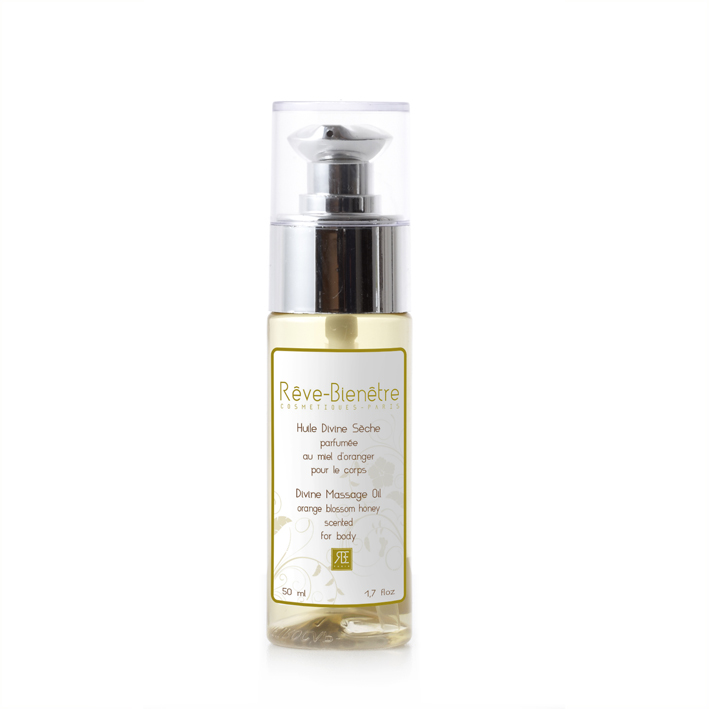
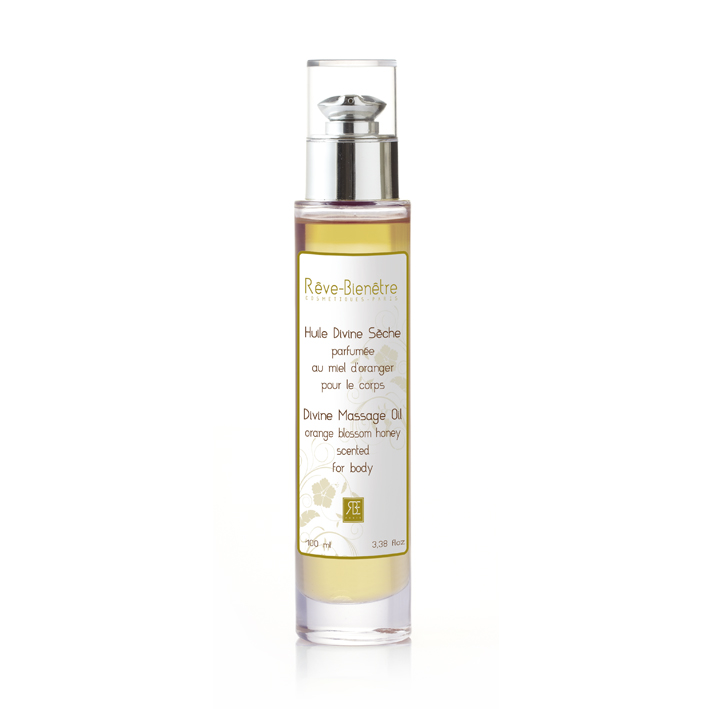
Correction images (mauvais etiquettes)

Changed region(s): [[0.3724, 0.0621, 0.5896, 0.9309], [0.4344, 0.0621, 0.4654, 0.0931], [0.3724, 0.1241, 0.4034, 0.1551]]

diff --git a/www/soins-corps-produits-huiles.htm b/www/soins-corps-produits-huiles.htm
@@ -108,7 +108,7 @@
 				<h4>Soins du corps / Huiles de corps et massage : <span id="nbItem_corps"></span> produits</h4>
 				<ul id="mycarousel" class="liste-produits">
 					<!--Les Huiles-->
-					<li class="produits"><a href="soins-corps-produit-25.htm"><img src="images/produits/huile-Divine.jpg" alt="Huile Divine sèche - 50ml et 100ml" /><div class="caption"><strong>Huile Divine sèche<br /></strong>50ml et 100ml<div class="breaker"></div><div class="nouveaute">Nouveauté !</div><div class="best-seller">Meilleure vente !</div></div></a></li>
+					<li class="produits"><a href="soins-corps-produit-25.htm"><img src="images/produits/huile-Divine-100-ml.jpg" alt="Huile Divine sèche - 50ml et 100ml" /><div class="caption"><strong>Huile Divine sèche<br /></strong>50ml et 100ml<div class="breaker"></div><div class="nouveaute">Nouveauté !</div><div class="best-seller">Meilleure vente !</div></div></a></li>
 					<li class="produits"><a href="soins-corps-produit-1.htm"><img src="images/produits/huile-d'argan-100-ml.jpg" alt="Huile d'argan - 100 ml" /><div class="caption"><strong>Huile d'argan</strong>Visage, corps et cheveux<br />100 ml<div class="breaker"></div><div class="best-seller">Meilleure vente !</div></div></a></li>
 					<li class="produits"><a href="soins-corps-produit-11.htm"><img src="images/produits/Huile-de-massage-the-vert-100-ml.jpg" alt="Huile de massage parfumée thé vert/gingembre - 100 ml" /><div class="caption"><strong>Huile de massage parfumée thé vert/gingembre</strong>100 ml<div class="breaker"></div><div class="best-seller">Meilleure vente !</div></div></a></li>
 					<li class="produits"><a href="soins-corps-produit-12.htm"><img src="images/produits/Huile-de-massage-monoi-100-ml.jpg" alt="Huile de massage parfumée au monoï - 100 ml" /><div class="caption"><strong>Huile de massage parfumée au monoï</strong>100 ml<div class="breaker"></div><div class="best-seller">Meilleure vente !</div></div></a></li>

diff --git a/www/en/nouveautes.htm b/www/en/nouveautes.htm
@@ -111,7 +111,7 @@
 					<li class="produits"><a href="nouveautes-produit-1.htm"><img src="../images/produits/trousse-decouverte.jpg" alt="Discovery set with 4 fragrant oils - 50 ml" /><div class="caption"><strong>Discovery set with 4 fragrant oils - 50 ml</strong>Body<!--<div class="breaker"></div><div class="best-seller">Best seller !</div>--></div></a></li>
 					<li class="produits"><a href="nouveautes-produit-12.htm"><img src="../images/produits/sac-reve-bienetre.jpg" alt="Rêve-Bienêtre bag" /><div class="caption"><strong>Rêve-Bienêtre bag</strong></div></a></li>
 					<li class="produits"><a href="nouveautes-produit-19.htm"><img src="../images/produits/foutha.jpg" alt="White Fouta 95% cotton" /><div class="caption"><strong>White Fouta 95% cotton</strong></div></a></li>
-					<!--<li class="produits"><a href="soins-corps-produit-25.htm"><img src="../images/produits/huile-Divine.jpg" alt="Divine dry oil - 50ml et 100ml" /><div class="caption"><strong>Divine dry oil<br />- 50ml or 100ml</strong><div class="breaker"></div></div></a></li>
+					<!--<li class="produits"><a href="soins-corps-produit-25.htm"><img src="../images/produits/huile-Divine-100-ml.jpg" alt="Divine dry oil - 50ml et 100ml" /><div class="caption"><strong>Divine dry oil<br />- 50ml or 100ml</strong><div class="breaker"></div></div></a></li>
 					
 					<li class="produits"><a href="soins-corps-produit-26.htm"><img src="../images/produits/gommage-argan-karite.jpg" alt="Argan & Shea Exfoliating Scrub - 200ml" /><div class="caption"><strong>Argan &amp; Shea Exfoliating Scrub<br />- 200ml</strong><div class="breaker"></div></div></a></li>
 					<li class="produits"><a href="soins-corps-produit-24.htm"><img src="../images/produits/soins-mains-pieds.jpg" alt="Hand and feet care - 100ml" /><div class="caption"><strong>Hand and feet care<br />- 100ml</strong><div class="breaker"></div><div class="best-seller">Meilleure vente !</div></div></a></li>

diff --git a/www/en/soins-corps-produits-huiles.htm b/www/en/soins-corps-produits-huiles.htm
@@ -108,7 +108,7 @@
 				<h4>Body care / Body and massage oil : <span id="nbItem_corps"></span> products</h4>
 				<ul id="mycarousel" class="liste-produits">
 					<!--Les Huiles-->
-					<li class="produits"><a href="soins-corps-produit-25.htm"><img src="../images/produits/huile-Divine.jpg" alt="Divine dry oil - 50ml or 100ml" /><div class="caption"><strong>Divine dry oil<br /></strong>50ml or 100ml<div class="breaker"></div><div class="nouveaute">New !</div><div class="best-seller">Meilleure vente !</div></div></a></li>
+					<li class="produits"><a href="soins-corps-produit-25.htm"><img src="../images/produits/huile-Divine-100-ml.jpg" alt="Divine dry oil - 50ml or 100ml" /><div class="caption"><strong>Divine dry oil<br /></strong>50ml or 100ml<div class="breaker"></div><div class="nouveaute">New !</div><div class="best-seller">Meilleure vente !</div></div></a></li>
 					<li class="produits"><a href="soins-corps-produit-1.htm"><img src="../images/produits/huile-d'argan-100-ml.jpg" alt="Argan oil - 100 ml" /><div class="caption"><strong>Argan oil</strong>Face, body and hair care<br />100 ml<div class="breaker"></div><div class="best-seller">Best seller !</div></div></a></li>
 					<li class="produits"><a href="soins-corps-produit-11.htm"><img src="../images/produits/Huile-de-massage-the-vert-100-ml.jpg" alt="Green tea/ginger scented massage oil - 100 ml" /><div class="caption"><strong>Green tea/ginger scented massage oil</strong>100 ml<div class="breaker"></div><div class="best-seller">Best seller !</div></div></a></li>
 					<li class="produits"><a href="soins-corps-produit-12.htm"><img src="../images/produits/Huile-de-massage-monoi-100-ml.jpg" alt="Monoï scented massage oil - 100 ml" /><div class="caption"><strong>Monoï scented massage oil</strong>100 ml<div class="breaker"></div><div class="best-seller">Best seller !</div></div></a></li>

diff --git a/www/soins-corps.htm b/www/soins-corps.htm
@@ -118,7 +118,7 @@
 					<!--//Les Gommages raffermissant-->
 
 					<!--Les Huiles-->
-					<li class="produits"><a href="soins-corps-produit-25.htm"><img src="images/produits/huile-Divine.jpg" alt="Huile Divine sèche - 50ml et 100ml" /><div class="caption"><strong>Huile Divine sèche<br /></strong>50ml et 100ml<div class="breaker"></div><!--<div class="nouveaute">Nouveauté !</div>--><div class="best-seller">Meilleure vente !</div></div></a></li>
+					<li class="produits"><a href="soins-corps-produit-25.htm"><img src="images/produits/huile-Divine-100-ml.jpg" alt="Huile Divine sèche - 50ml et 100ml" /><div class="caption"><strong>Huile Divine sèche<br /></strong>50ml et 100ml<div class="breaker"></div><!--<div class="nouveaute">Nouveauté !</div>--><div class="best-seller">Meilleure vente !</div></div></a></li>
 					<li class="produits"><a href="soins-corps-produit-1.htm"><img src="images/produits/huile-d'argan-100-ml.jpg" alt="Huile d'argan - 100 ml" /><div class="caption"><strong>Huile d'argan</strong>Visage, corps et cheveux<br />100 ml<div class="breaker"></div><div class="best-seller">Meilleure vente !</div></div></a></li>
 					<li class="produits"><a href="soins-corps-produit-11.htm"><img src="images/produits/Huile-de-massage-the-vert-100-ml.jpg" alt="Huile de massage parfumée thé vert/gingembre - 100 ml" /><div class="caption"><strong>Huile de massage parfumée thé vert/gingembre</strong>100 ml<div class="breaker"></div><div class="best-seller">Meilleure vente !</div></div></a></li>
 					<li class="produits"><a href="soins-corps-produit-12.htm"><img src="images/produits/Huile-de-massage-monoi-100-ml.jpg" alt="Huile de massage parfumée au monoï - 100 ml" /><div class="caption"><strong>Huile de massage parfumée au monoï</strong>100 ml<div class="breaker"></div><div class="best-seller">Meilleure vente !</div></div></a></li>

diff --git a/www/en/soins-corps.htm b/www/en/soins-corps.htm
@@ -118,7 +118,7 @@
 					<!--//Les Gommages raffermissant-->
 
 					<!--Les Huiles-->
-					<li class="produits"><a href="soins-corps-produit-25.htm"><img src="../images/produits/huile-Divine.jpg" alt="Divine dry oil - 50ml or 100ml" /><div class="caption"><strong>Divine dry oil<br /></strong>50ml or 100ml<div class="breaker"></div><!--<div class="nouveaute">New !</div>--><div class="best-seller">Best seller !</div></div></a></li>
+					<li class="produits"><a href="soins-corps-produit-25.htm"><img src="../images/produits/huile-Divine-100-ml.jpg" alt="Divine dry oil - 50ml or 100ml" /><div class="caption"><strong>Divine dry oil<br /></strong>50ml or 100ml<div class="breaker"></div><!--<div class="nouveaute">New !</div>--><div class="best-seller">Best seller !</div></div></a></li>
 					<li class="produits"><a href="soins-corps-produit-1.htm"><img src="../images/produits/huile-d'argan-100-ml.jpg" alt="Argan oil - 100 ml" /><div class="caption"><strong>Argan oil</strong>Face, body and hair care<br />100 ml<div class="breaker"></div><div class="best-seller">Best seller !</div></div></a></li>
 					<li class="produits"><a href="soins-corps-produit-11.htm"><img src="../images/produits/Huile-de-massage-the-vert-100-ml.jpg" alt="Green tea/ginger scented massage oil - 100 ml" /><div class="caption"><strong>Green tea/ginger scented massage oil</strong>100 ml<div class="breaker"></div><div class="best-seller">Best seller !</div></div></a></li>
 					<li class="produits"><a href="soins-corps-produit-12.htm"><img src="../images/produits/Huile-de-massage-monoi-100-ml.jpg" alt="Monoï scented massage oil - 100 ml" /><div class="caption"><strong>Monoï scented massage oil</strong>100 ml<div class="breaker"></div><div class="best-seller">Best seller !</div></div></a></li>

diff --git a/www/nouveautes.htm b/www/nouveautes.htm
@@ -125,7 +125,7 @@
 				
 					<!--<li class="produits"><a href="nouveautes-produit-13.htm"><img src="images/produits/huile-decouverte-unite.jpg" alt="Huile de massage corps - 50 ml" /><div class="caption"><strong>Huile de massage corps - Vendue à l'unité - 50 ml</strong></div></a></li>
 
-					<li class="produits"><a href="soins-corps-produit-25.htm"><img src="images/produits/huile-Divine.jpg" alt="Huile Divine sèche - 50ml et 100ml" /><div class="caption"><strong>Huile Divine sèche<br /></strong>50ml et 100ml<div class="breaker"></div></div></a></li>
+					<li class="produits"><a href="soins-corps-produit-25.htm"><img src="images/produits/huile-Divine-100-ml.jpg" alt="Huile Divine sèche - 50ml et 100ml" /><div class="caption"><strong>Huile Divine sèche<br /></strong>50ml et 100ml<div class="breaker"></div></div></a></li>
 					<li class="produits"><a href="soins-corps-produit-24.htm"><img src="images/produits/soins-mains-pieds.jpg" alt="Soin mains et pieds - 100ml" /><div class="caption"><strong>Soin mains et pieds<br /></strong>100ml<div class="breaker"></div><div class="best-seller">Meilleure vente !</div></div></a></li>
 					<li class="produits"><a href="soins-corps-produit-23.htm"><img src="images/produits/baume-karite-monoi-200gr.jpg" alt="Baume karité parfumé au monoï - 200 ml" /><div class="caption"><strong>Baume karité parfumé au monoï<br /></strong>Visage et corps<br />200 ml<div class="breaker"></div></div></a></li>
 					<li class="produits"><a href="nouveautes-produit-23.htm"><img src="images/produits/miniature-huile-lait.jpg" alt="Huile, lait corps - Format miniature" /><div class="caption"><strong>Huile, lait corps - Format miniature</strong></div></a></li>

diff --git a/www/en/soins-corps-produit-25.htm b/www/en/soins-corps-produit-25.htm
@@ -92,7 +92,7 @@ jQuery(document).ready(function($){
         </div>
         <div id="content">
             <div class="fiche-produit">
-                <div class="bloc-produit"><img src="../images/produits/huile-Divine.jpg" alt="Divine Dry oil - 50ml or 100ml" class="zoom" />Hover to zoom</div>
+                <div class="bloc-produit"><img src="../images/produits/huile-Divine-100-ml.jpg" alt="Divine Dry oil - 50ml or 100ml" class="zoom" />Hover to zoom</div>
                 <div class="description">
                     <h3>Divine Dry oil with Argan &amp; Orange Blossom Honey  - 50ml or 100ml<!--<span class="best-seller">Best seller !</span></h3>
                     <div id="tab-container" class='tab-container'>

diff --git a/www/soins-corps-produit-25.htm b/www/soins-corps-produit-25.htm
@@ -92,7 +92,7 @@ jQuery(document).ready(function($){
         </div>
         <div id="content">
             <div class="fiche-produit">
-                <div class="bloc-produit"><img src="images/produits/huile-Divine.jpg" alt="Huile Divine sèche - 50ml et 100ml" class="zoom" />Survolez l'image pour zoomer</div>
+                <div class="bloc-produit"><img src="images/produits/huile-Divine-100-ml.jpg" alt="Huile Divine sèche - 50ml et 100ml" class="zoom" />Survolez l'image pour zoomer</div>
                 <div class="description">
                     <h3>Huile Divine sèche - 50ml et 100ml<span class="best-seller">Meilleure vente !</span></h3>
                     <div id="tab-container" class='tab-container'>
